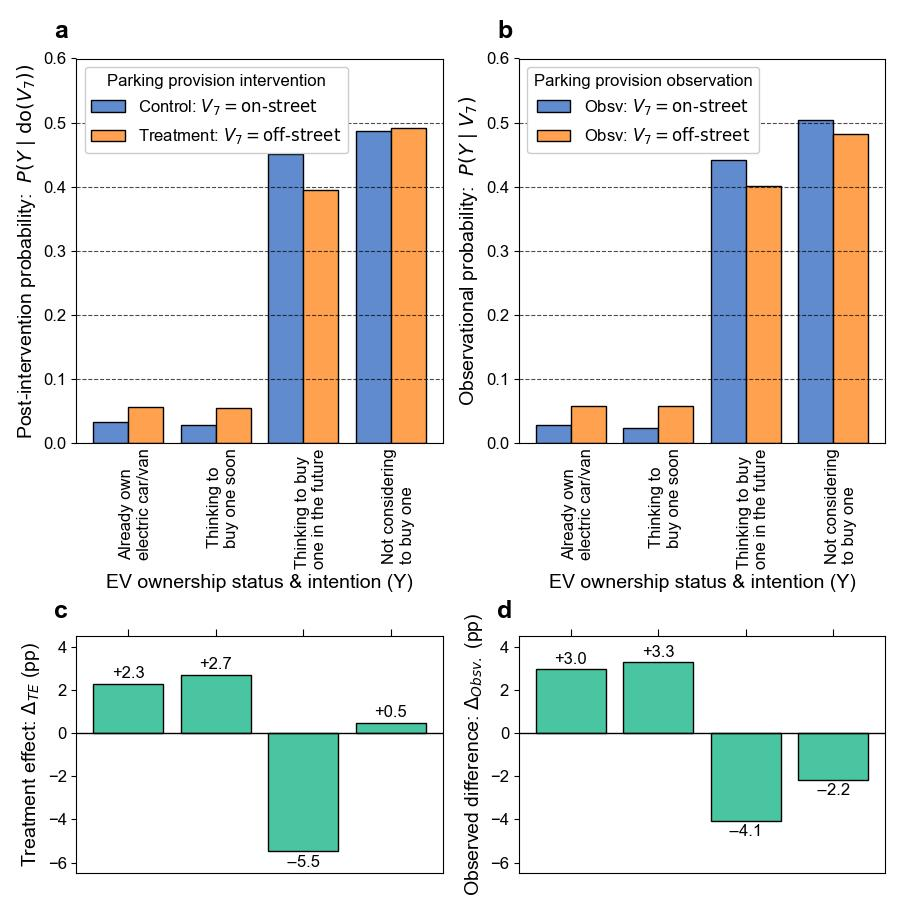
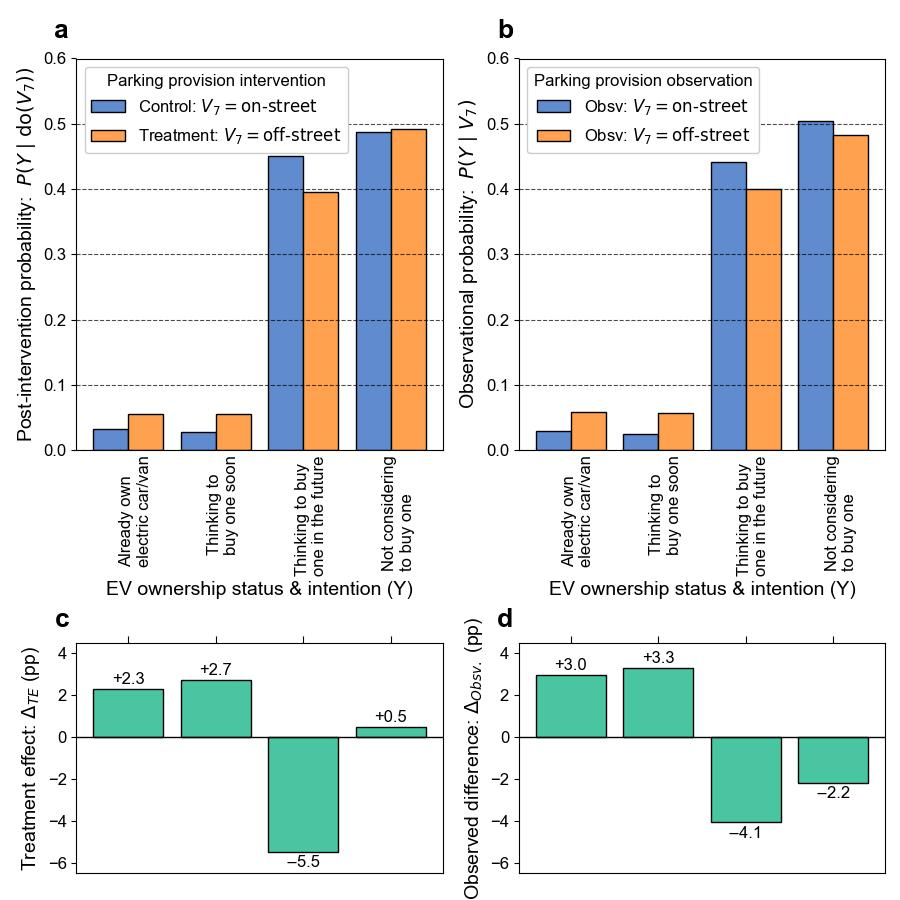
nc

diff --git a/Plotter.py b/Plotter.py
@@ -49,7 +49,7 @@ class Plotter():
         x_labels = ["Already own\nelectric car/van", "Thinking to\nbuy one soon", "Thinking to buy\none in the future", "Not considering\nto buy one"]
         
         plt.rcParams["font.family"] = "Arial"
-        fig, axes = plt.subplots(2, 2, figsize=(9, 9), gridspec_kw={'height_ratios': [1.62, 1]})  # 2 rows x 2 cols
+        fig, axes = plt.subplots(2, 2, figsize=(9, 9), gridspec_kw={'height_ratios': [1.7, 1]})  # 2 rows x 2 cols
         
 
         #---------------------------------------------------------------------------
@@ -76,7 +76,7 @@ class Plotter():
         ax.grid(axis='y', linestyle='--', alpha=0.7, color='black')
         ax.legend(loc='upper left', frameon=True, title="Parking provision intervention", title_fontsize=12, fontsize=12, framealpha=1.0)
         
-        ax.text(-0.06, 1.1, "a", transform=ax.transAxes, fontsize=18, fontweight='bold', va='top')
+        ax.text(-0.06, 1.1, "a", transform=ax.transAxes, fontsize=19, fontweight='bold', va='top')
         #------------------------------------------------------------------------------
 
 
@@ -103,7 +103,7 @@ class Plotter():
         ax.grid(axis='y', linestyle='--', alpha=0.7, color='black')
         ax.legend(loc='upper left', frameon=True, title="Parking provision observation", title_fontsize=12, fontsize=12, framealpha=1)
         
-        ax.text(-0.06, 1.1, "b", transform=ax.transAxes, fontsize=18, fontweight='bold', va='top')
+        ax.text(-0.06, 1.1, "b", transform=ax.transAxes, fontsize=19, fontweight='bold', va='top')
         #------------------------------------------------------------------------------
         
         ax = axes[1, 0]
@@ -131,7 +131,7 @@ class Plotter():
         ax.text(b_pp_interv[2], treatment_effects[2] - 0.15, f"-{round(treatment_effects[2], 1)}", ha='center', va='top', fontsize=12)
         ax.text(b_pp_interv[3], treatment_effects[3] + 0.1, f"+{round(treatment_effects[3], 1)}", ha='center', va='bottom', fontsize=12)
         
-        ax.text(-0.06, 1.15, "c", transform=ax.transAxes, fontsize=18, fontweight='bold', va='top')
+        ax.text(-0.06, 1.15, "c", transform=ax.transAxes, fontsize=19, fontweight='bold', va='top')
         #----------------------------------------------------------------------------------
         
         ax = axes[1, 1]
@@ -159,7 +159,7 @@ class Plotter():
         ax.text(b_pp_obs[2], observed_diff[2] - 0.15, f"-{round(observed_diff[2], 1)}", ha='center', va='top', fontsize=12)
         ax.text(b_pp_obs[3], observed_diff[3] - 0.15, f"-{round(observed_diff[3], 1)}", ha='center', va='top', fontsize=12)
         
-        ax.text(-0.06, 1.15, "d", transform=ax.transAxes, fontsize=18, fontweight='bold', va='top')
+        ax.text(-0.06, 1.15, "d", transform=ax.transAxes, fontsize=19, fontweight='bold', va='top')
         #----------------------------------------------------------------------------------
         
 
